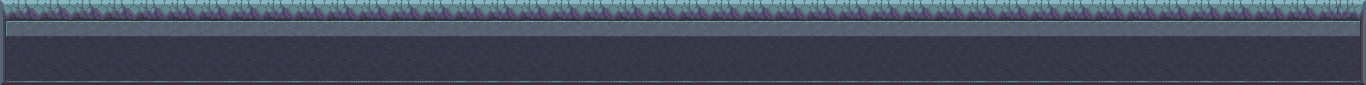
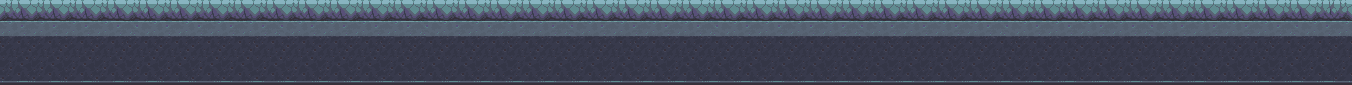
Updates to Parallax & Colors

diff --git a/resources/eternia.css b/resources/eternia.css
@@ -5,7 +5,7 @@
 
 body {
     /* background: url("vincentiu-solomon-ln5drpv_ImI-unsplash.jpg") no-repeat fixed center center / cover; */
-    background: #ffffcc;
+    background: #e0ffd8;
     image-rendering: pixelated;
     font-family: 'Open Sans',sans-serif;
     font-weight: 400;
@@ -27,6 +27,15 @@ body {
 }
 
 /* Navbar */
+.navbar_menu{
+    margin-top: 16px;
+}
+
+.navbar{
+    background:url('topo2.png') !important;
+    height: 64px;
+}
+
 li > a {
     display: inline-block;
     width: 128px;
@@ -161,8 +170,8 @@ li.discord{
 #divider{
     background:url('eterniaparallax.png') no-repeat center;
     width: 100%;
-    height: 491px;
-    margin-top: -492px;
+    height: 461px;
+    margin-top: -462px;
 }
 
 /* Content */
@@ -171,7 +180,7 @@ li.discord{
     position: relative;
     z-index: 98;
     margin-bottom: -20px;
-    background: linear-gradient(-180deg, #fae791, #ffffcc);
+    background: linear-gradient(-180deg, #5fb7aa, #2af9da);
 }
 
 #content_container {

diff --git a/LandingTrue.html b/LandingTrue.html
@@ -26,7 +26,7 @@
 
     <body data-gr-c-s-loaded="true">
         <nav class="navbar navbar-expand-lg navbar-light bg-dark">
-            <div class="container">
+            <div class="container navbar_menu">
                 <ul class="navbar-nav mr-auto">
                     <li id="home" class="menu-item home"><a href="#"></a></li>
                     <li id="forums" class="menu-item forums"><a href="https://chronicles-of-esshar.com/br/"></a></li>
@@ -45,7 +45,7 @@
             <!-- <div class="content_break"></div> -->
           </div>
         <div style="clear: both;"></div>
-        <div id="divider"></div>
+        <div id="divider"><div id="divider_overlay"></div></div>
         <div id="content">
             <div id="content_container">
                 <div id="content_text_area">
